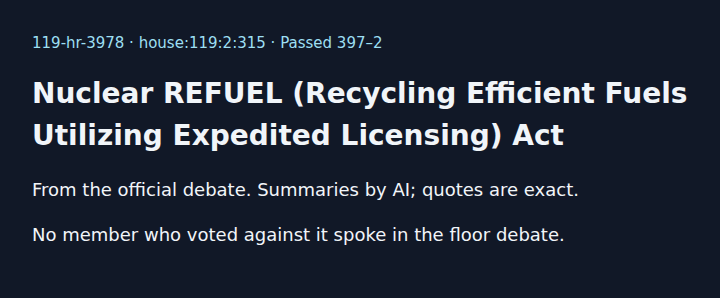
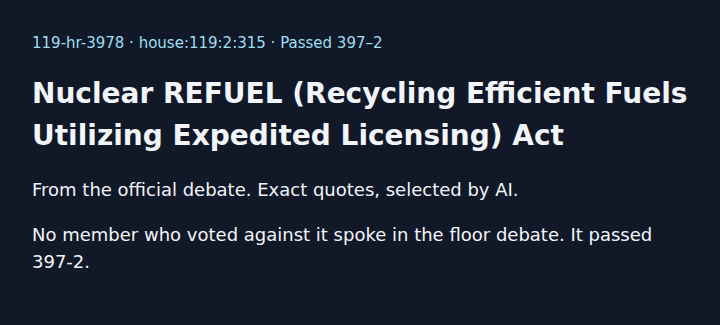
Cache debate review for 119-hr-3978

diff --git a/pilot/review/119-hr-3978.html b/pilot/review/119-hr-3978.html
@@ -1,0 +1,1 @@
+<meta charset=utf-8><style>*{box-sizing:border-box}body{margin:0;background:#111827;color:#f1f5f9;font:18px/1.5 system-ui}main{padding:32px;width:720px}h1{font-size:28px}h2{font-size:20px;color:#a3e635}article{padding:14px 0;border-top:1px solid #475569}blockquote{margin:12px 0;color:#cbd5e1}a{color:#9ddff2}small{color:#9ddff2}</style><main><small>119-hr-3978 · house:119:2:315 · Passed 397–2</small><h1>Nuclear REFUEL (Recycling Efficient Fuels Utilizing Expedited Licensing) Act</h1><p>From the official debate. Exact quotes, selected by AI.</p><p>No member who voted against it spoke in the floor debate. It passed 397-2.</p></main>
